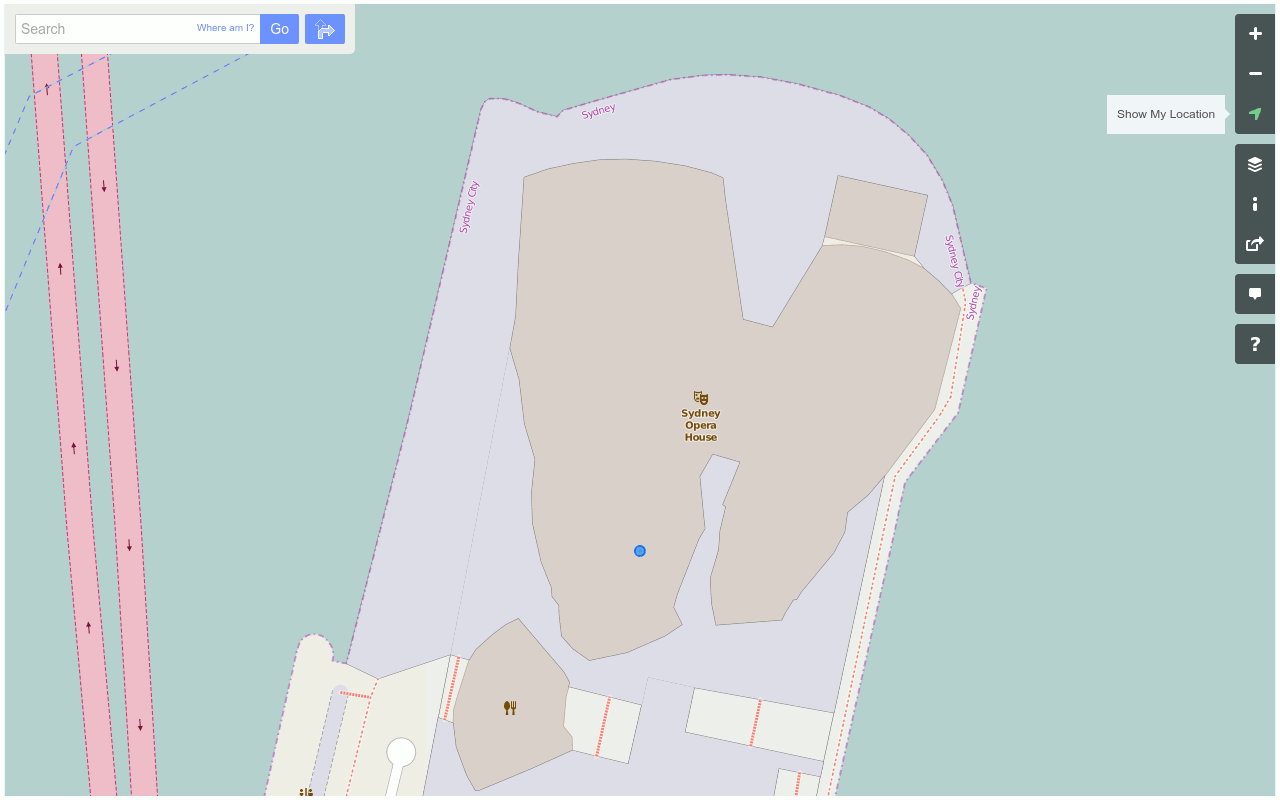
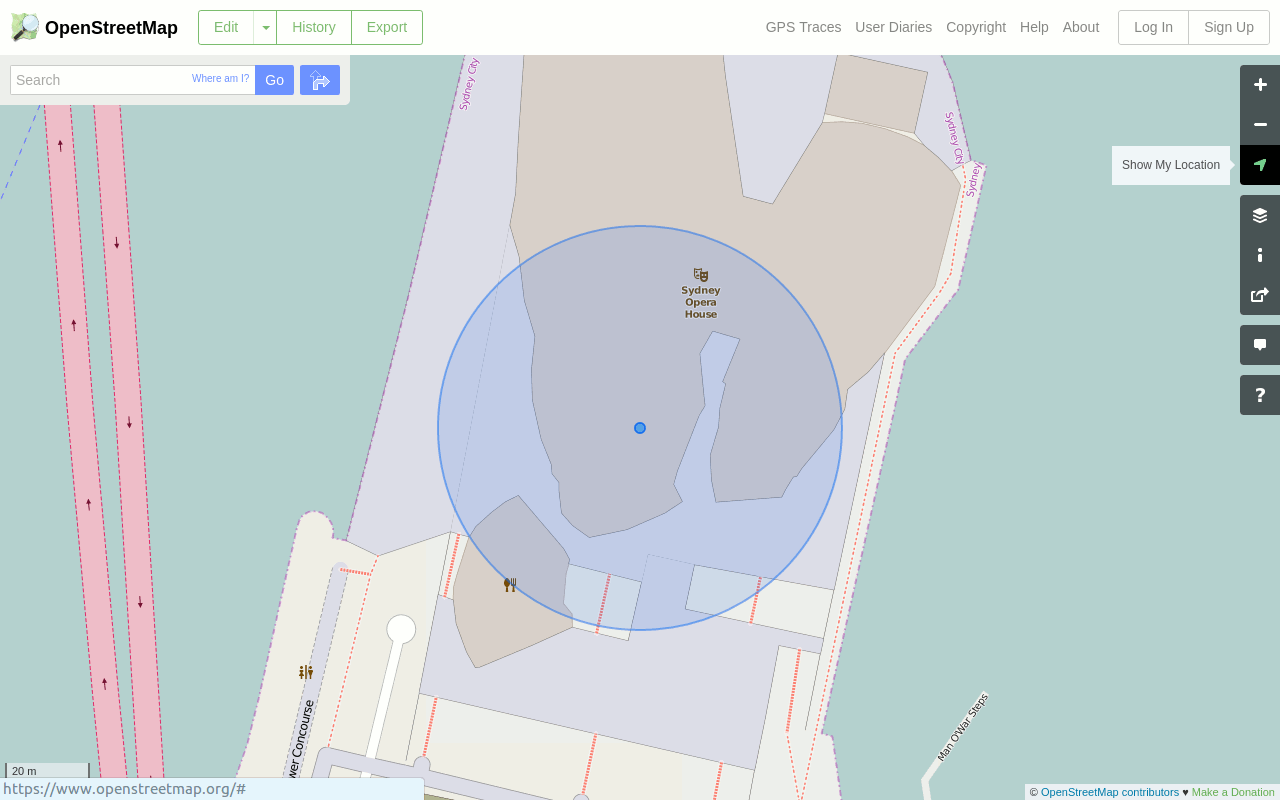
include accuracy in demo mode

diff --git a/README.md b/README.md
@@ -92,7 +92,7 @@ If you're playing with this yourself, you'll notice that the extension ID has ch
 If you want to test something without gpsd attached, you can enter the background page console (in chrome://extensions) and enter the following code into the console:
 
 ```javascript
-setInterval(function() { gpsd_port_messageHandler({class:'TPV',tag:'RMC', lat:-33.85717, lon:151.21502, mode:2, time:(new Date()).getTime()}); }, 1000);
+setInterval(function() { gpsd_port_messageHandler({class:'TPV',tag:'RMC', lat:-33.85717, lon:151.21502, mode:2, epy:50, epx:50, time:(new Date()).getTime()}); }, 1000);
 ```
 
 This will send a GPS message every second with your location as the [Sydney Opera House](https://en.wikipedia.org/wiki/Sydney_Opera_House).
